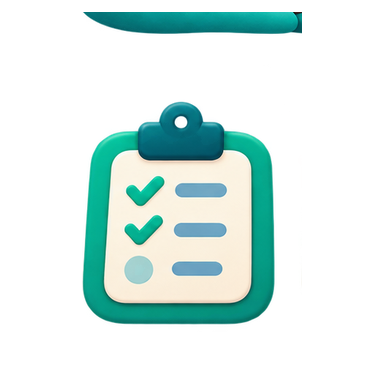
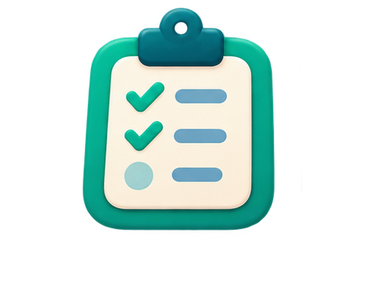
Ikony lista/terminy/notatnik bez obcej kreski (pliki PNG przepisane bez górnego pasa), bez przycinania w kodzie

Changed region(s): [[0.1875, 0.0, 0.8125, 0.869]]

diff --git a/lib/core/ui/illustration.dart b/lib/core/ui/illustration.dart
@@ -10,22 +10,19 @@ enum Illustration {
   notes('notes'),
   budget('budget'),
   house('dom'),
-  list('lista', cropTop: 0.16),
+  list('lista'),
   notebook('notatnik'),
   savings('oszczednosci'),
   plant('roslina'),
-  dates('terminy', cropTop: 0.16),
+  dates('terminy'),
   bearHouse('mis-z-domem'),
   bearResting('mis-odpoczywa'),
   // Logo = miś z domkiem (plik 1254 px był za duży do APK).
   bearLogo('mis-z-domem');
 
-  const Illustration(this.file, {this.cropTop = 0});
+  const Illustration(this.file);
 
   final String file;
-
-  /// Ułamek wysokości obcinany od góry (artefakty w pliku).
-  final double cropTop;
 
   String get asset => 'assets/images/3d/$file.png';
 }
@@ -48,19 +45,11 @@ class IllustrationImage extends StatelessWidget {
       child: SizedBox(
         width: height,
         height: height,
-        child: ClipRect(
-          child: Align(
-            alignment: Alignment.bottomCenter,
-            heightFactor: 1 - illustration.cropTop,
-            child: Image.asset(
-              illustration.asset,
-              width: height,
-              height: height,
-              fit: BoxFit.contain,
-              filterQuality: FilterQuality.medium,
-              cacheHeight: (height * 3).round(),
-            ),
-          ),
+        child: Image.asset(
+          illustration.asset,
+          fit: BoxFit.contain,
+          filterQuality: FilterQuality.medium,
+          cacheHeight: (height * 3).round(),
         ),
       ),
     );
